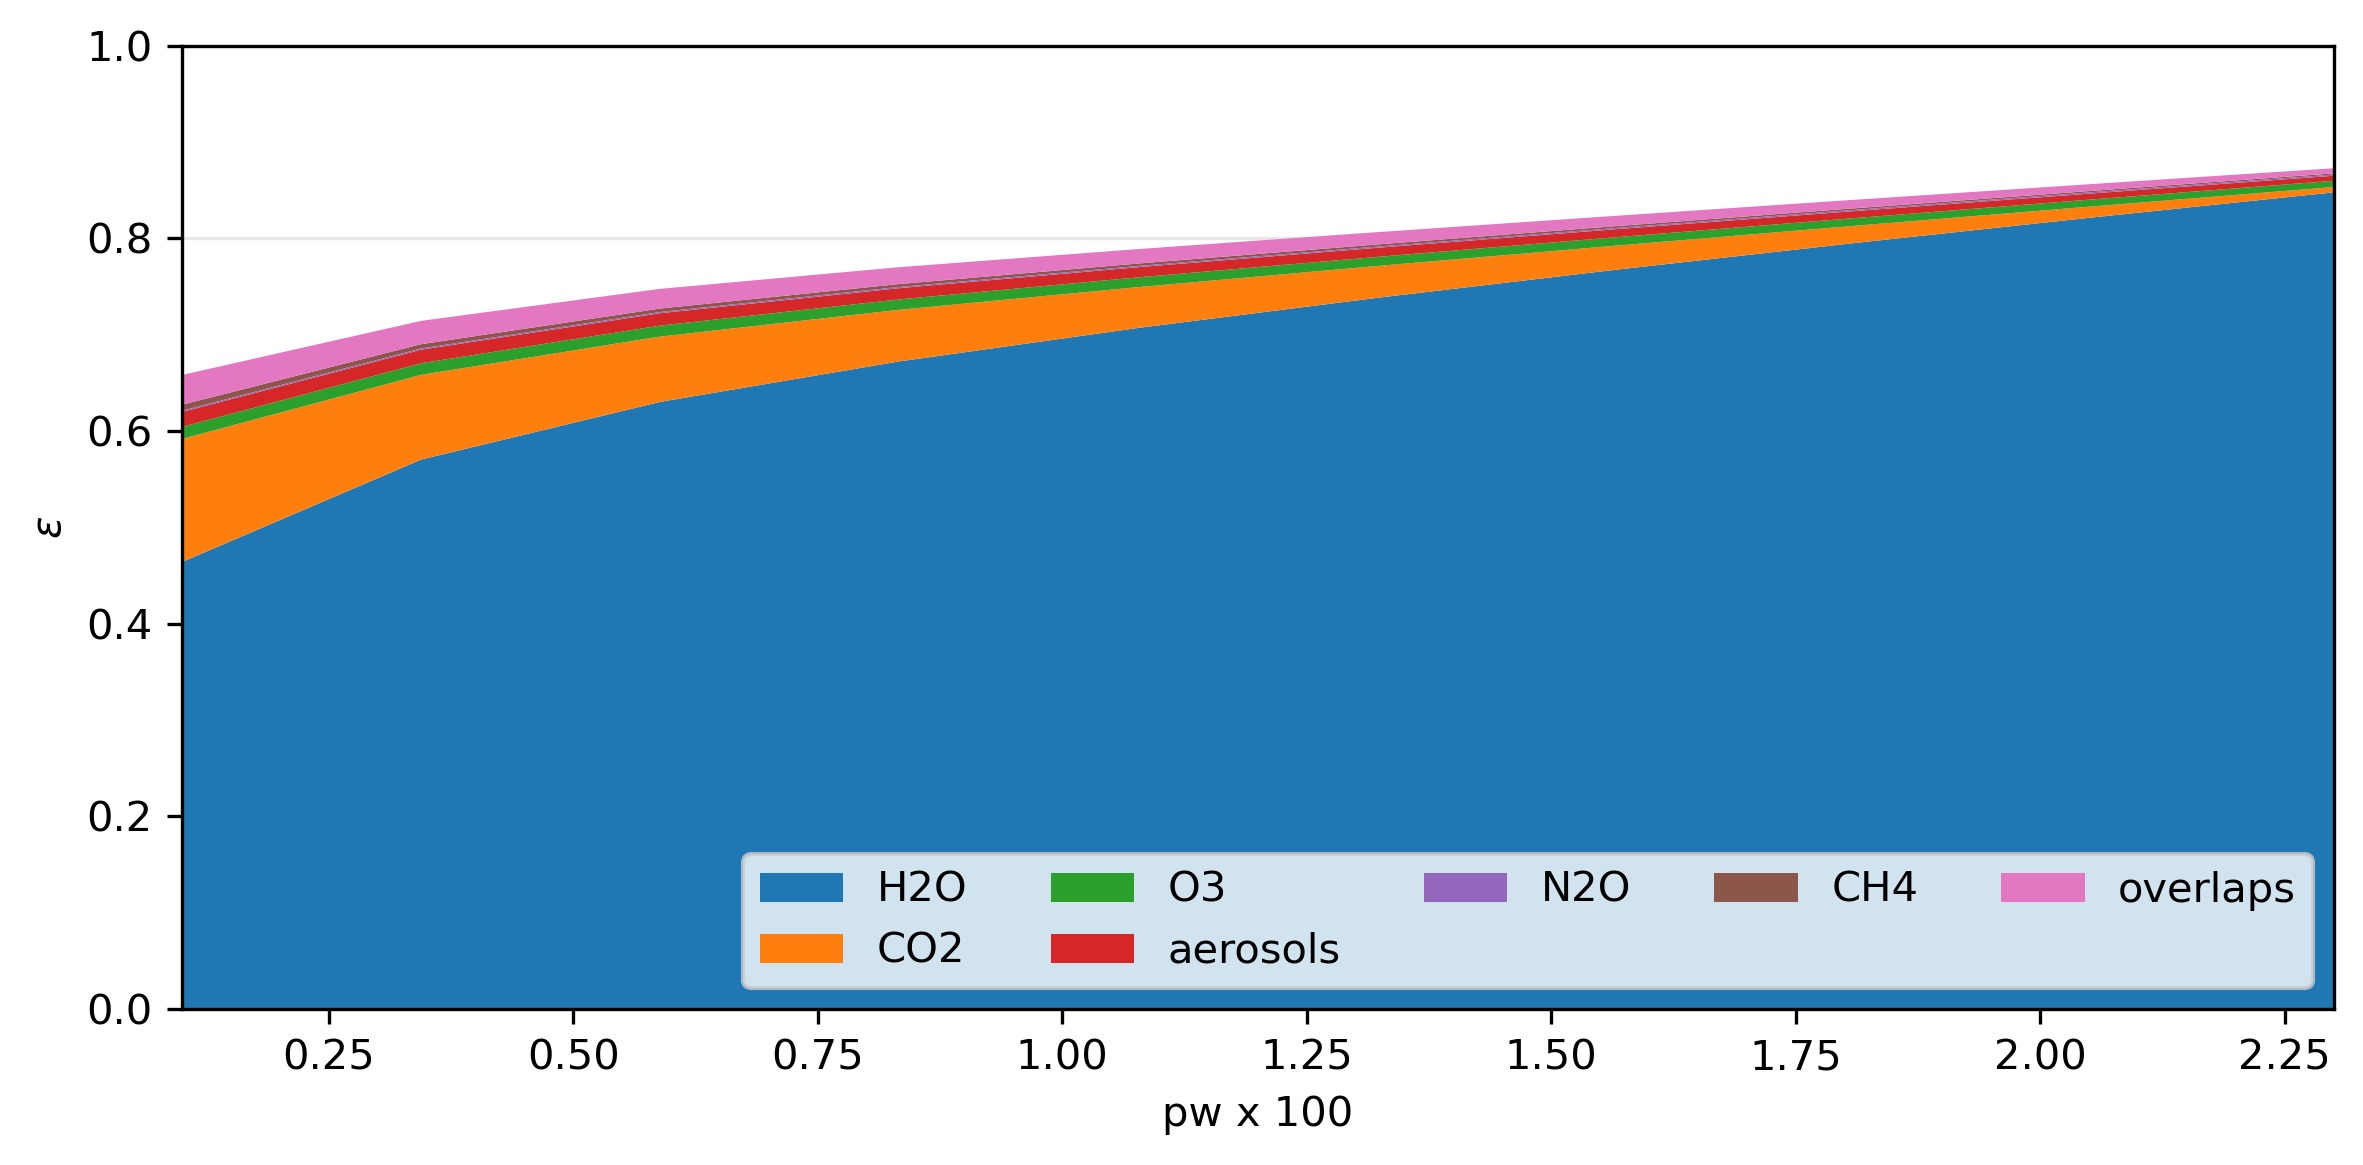
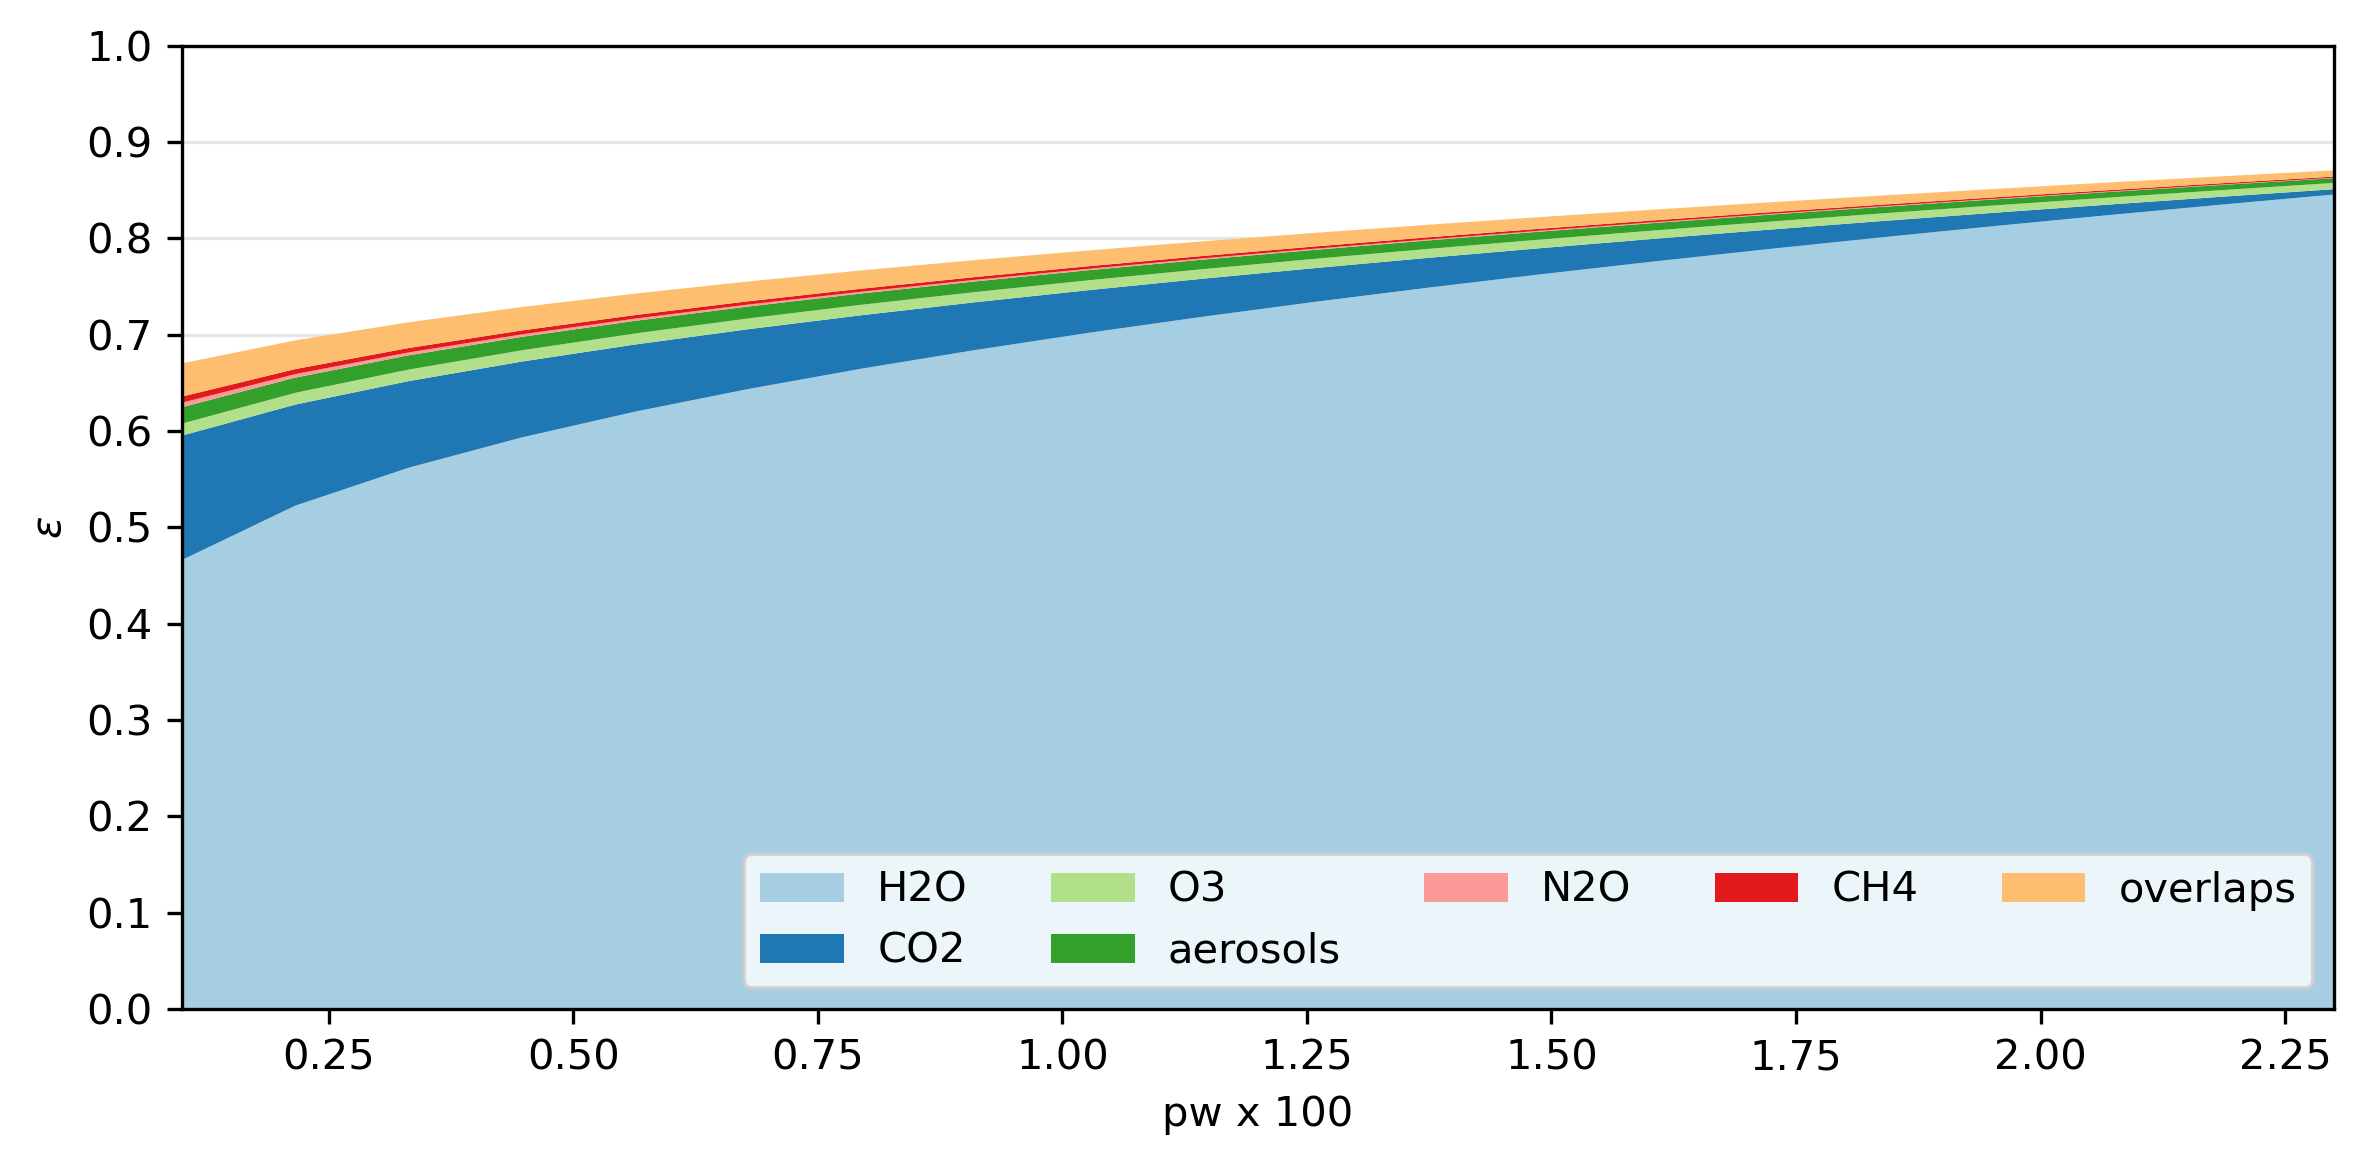
Update Fig3 comparison with Shakespeare model
Use broadband values from Table 1, fix unit conversion of pw_x to q

diff --git a/fig3.py b/fig3.py
@@ -19,12 +19,26 @@ def get_pw_norm(t, rh):
 
 
 def pw2rh(t, pw):
+    """Provides inverse of get_pw() i.e. eq (5) in 2017 paper
+
+    Parameters
+    ----------
+    t : float
+        Temperature in K
+    pw : float
+        Partial pressure of water vapor in Pa
+
+    Returns
+    -------
+    rh : float
+        Returns relative humidity [%]
+    """
     exp_term = 17.625 * (t - 273.15) / (t - 30.11)
     rh = ((pw / 610.94) / np.exp(exp_term)) * 100  # %
     return rh
 
 
-def get_emissivity_ij(t_a, rh):
+def get_emissivity_ij(t_a, pw_norm):
     """
     Create matrix of emissivity per species (i) and per band (j)
     i.e. species on rows and bands on columns
@@ -35,8 +49,8 @@ def get_emissivity_ij(t_a, rh):
     ----------
     t_a : float
         Screening level temperature.
-    rh : float
-        Relative humidity
+    pw_norm : float
+        Normalized partial pressure of water vapor (P_w / P0)
 
     Returns
     -------
@@ -48,7 +62,8 @@ def get_emissivity_ij(t_a, rh):
     df = pd.read_csv(filename, dtype={"O2": float, "N2": float})
 
     cc = list(LI_TABLE1.keys())  # contributing components
-    p_w = get_pw_norm(t_a, rh)
+    # p_w = get_pw_norm(t_a, rh)
+    # print(p_w, pw_norm)
     emissivity = np.zeros((N_SPECIES, N_BANDS))
     for j in range(N_BANDS):  # for each band j
         band = f"B{j + 1}"
@@ -56,21 +71,27 @@ def get_emissivity_ij(t_a, rh):
             species = cc[i]
             c1, c2, c3 = df.loc[df.band == band, species].values
             if band == "B2":
-                e_i = c1 + (c2 * np.tanh(c3 * p_w))
+                e_i = c1 + (c2 * np.tanh(c3 * pw_norm))
             else:
-                e_i = c1 + (c2 * (p_w ** c3))
+                e_i = c1 + (c2 * np.power(pw_norm, c3))
             emissivity[i, j] = e_i
     return emissivity
 
 
+def get_emissivity_i(p_w, sp="H2O"):
+    c1, c2, c3 = LI_TABLE1[sp]
+    e = c1 + (c2 * np.power(p_w, c3))
+    return e
+
+
 if __name__ == "__main__":
     print()
-    t_a = 294.2  # [K]
-    rh = 50  # %
-    pw = get_pw_norm(t_a, rh)
+    # t_a = 294.2  # [K]
+    # rh = 50  # %
+    # pw = get_pw_norm(t_a, rh)
     species = list(LI_TABLE1.keys())
 
-    pw_x = np.linspace(0.1, 2.3, 10)
+    pw_x = np.linspace(0.1, 2.3, 20)
     e_broad = np.zeros((len(pw_x), N_SPECIES))
 
     e_tau = np.zeros(len(pw_x))
@@ -80,43 +101,53 @@ if __name__ == "__main__":
     lon1 = SURFRAD[site]["lon"]
     h1, spline = shakespeare(lat1, lon1)
     pa = 900e2  # Pa
-    pw = pw_x * 100
+    pw = (pw_x / 100) * P_ATM  # Pa, partial pressure of water vapor
     w = 0.62198 * pw / (pa - pw)
-    q = w / (1 + w)
+    q = w / (1 + w)  # kg/kg
     p_ratio = pa / P_ATM
-    # TODO HE should probably vary with q
     he = (h1 / np.cos(40.3 * np.pi / 180)) * (p_ratio ** 1.8)
-    p_ratio = pa / P_ATM
-    he_p0 = (h1 / np.cos(40.3 * np.pi / 180)) * (p_ratio ** 1.8)
+    he_p0 = (h1 / np.cos(40.3 * np.pi / 180))
     for i in range((len(pw_x))):
         tau = spline.ev(q[i], he).item()
         e_tau[i] = 1 - np.exp(-1 * tau)
         tau = spline.ev(q[i], he_p0).item()
         e_tau_p0[i] = 1 - np.exp(-1 * tau)
 
-    for i in range(len(pw_x)):
-        p = (pw_x[i] / 100) * P_ATM  # pw in Pa
-        rh = pw2rh(t_a, p)  # extract rh value
-        e_broad[i, :] = get_emissivity_ij(t_a, rh).sum(axis=1)
+    # # use Table 2 per band per species
+    # pw_norm = (pw_x / 100)  # pw/p0
+    # for i in range(len(pw_x)):
+    #     e_broad[i, :] = get_emissivity_ij(t_a, pw_norm[i]).sum(axis=1)
 
-    # cmap = "Paired"
+    # use Table 1 broadband per species
+    pw_norm = (pw_x / 100)  # pw/p0
+    e_ttl = 0.6173 + (1.6940 * np.power(pw_norm, 0.5035))  # total
+    e_ref8 = 0.598 + (1.814 * np.power(pw_norm, 0.5))  # daytime clr (22a)
+    for i in range(len(species)):
+        e_broad[:, i] = get_emissivity_i(pw_norm, sp=species[i])
 
     # FIGURE
     fig, ax = plt.subplots(figsize=(8, 4))
+    cmap = mpl.colormaps["Paired"]
+    cmaplist = [cmap(i) for i in range(N_SPECIES)]
     ax.grid(axis="y", alpha=0.3)
     prev_y = 0
     for i in range(N_SPECIES):
-        ax.fill_between(pw_x, prev_y, prev_y + e_broad[:, i], label=species[i])
+        ax.fill_between(pw_x, prev_y, prev_y + e_broad[:, i],
+                        label=species[i], fc=cmaplist[i])
         prev_y = prev_y + e_broad[:, i]
+    # ax.plot(pw_x, e_ttl, ls="-", c="teal", label="total")
+    # ax.plot(pw_x, e_ref8, ls="--", c="teal", label="ref8")
     ax.plot(pw_x, e_tau, "k", label=r"(1-e$^{- \tau}$), P=P0")
     ax.plot(pw_x, e_tau_p0, "k--", label=r"(1-e$^{- \tau}$), P=900hPa")
     ax.set_xlim(pw_x[0], pw_x[-1])
     ax.set_ylim(0, 1)
+    ax.set_yticks(np.linspace(0, 1, 11))
     ax.set_xlabel("pw x 100")
     ax.set_ylabel(r"$\varepsilon$")
     ax.set_axisbelow(True)
     ax.legend(frameon=True, ncol=5, loc="lower right")
     plt.tight_layout()
-    filename = os.path.join("figures", "fig3_s.png")
-    fig.savefig(filename, bbox_inches="tight", dpi=300)
+    plt.show()
+    # filename = os.path.join("figures", "fig3_s.png")
+    # fig.savefig(filename, bbox_inches="tight", dpi=300)
 
